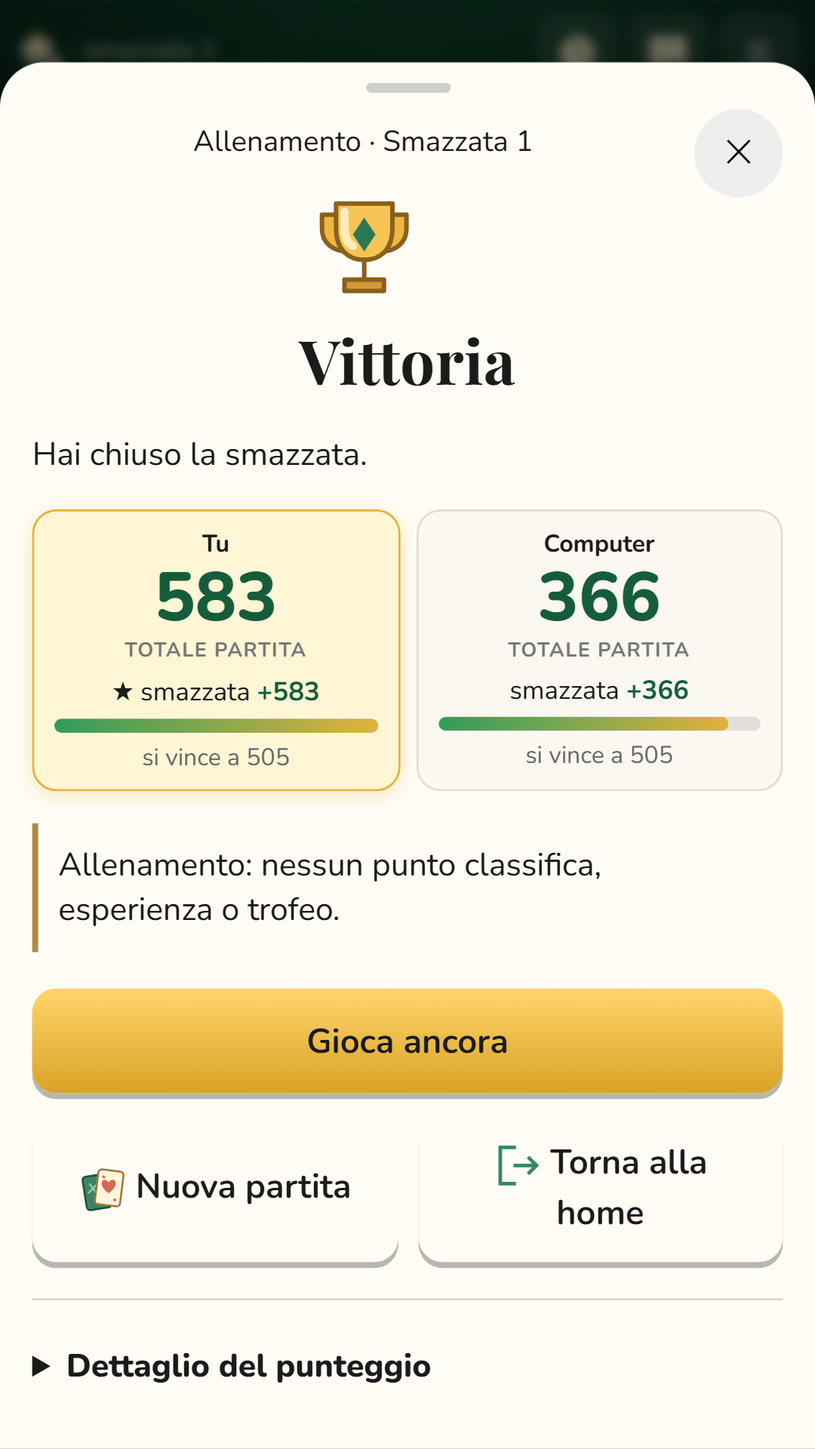
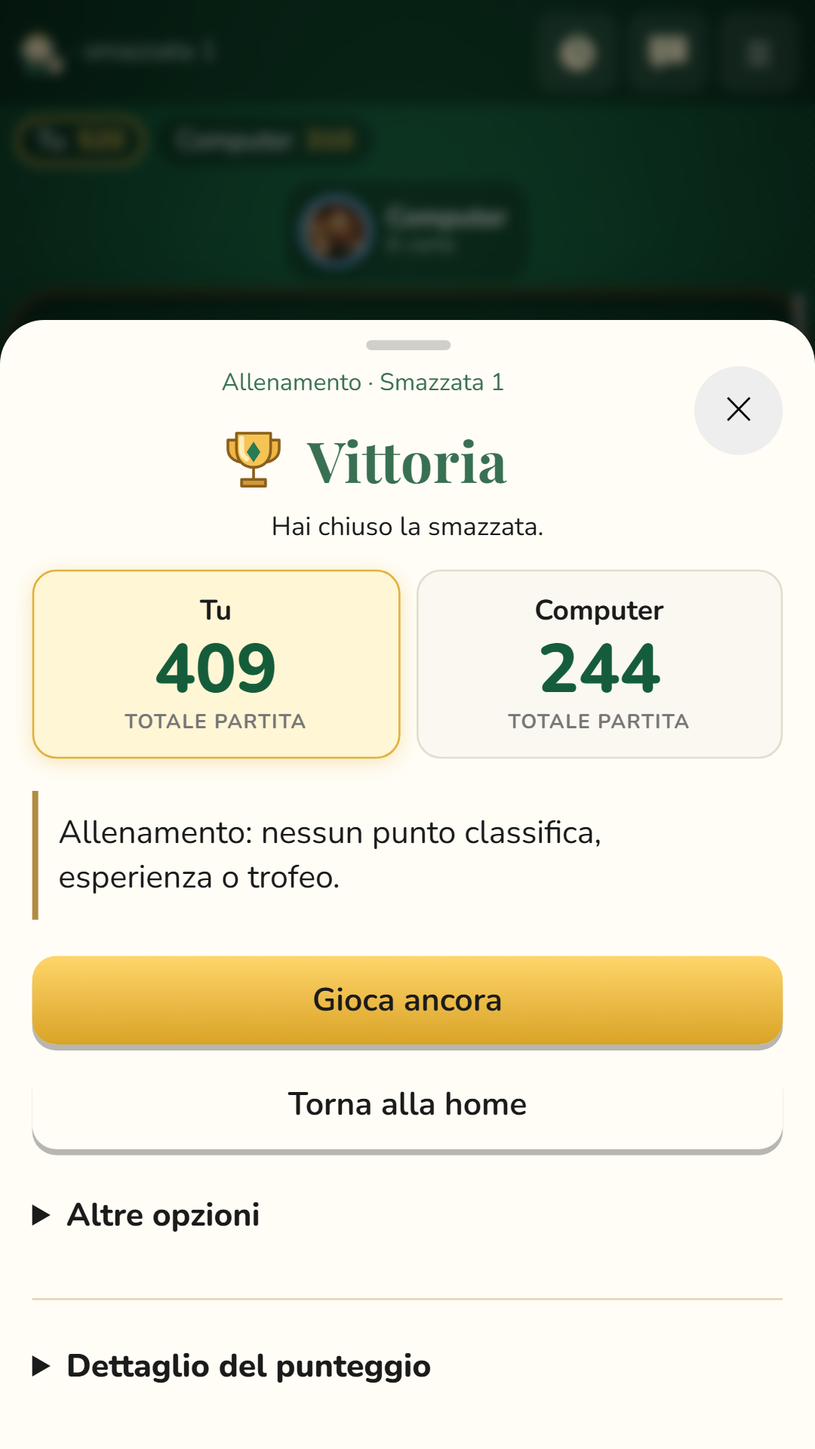
Rifinisci fine partita, inviti e apertura delle chest

diff --git a/public/js/finestre.js b/public/js/finestre.js
@@ -32,7 +32,7 @@
     const mode = training ? 'Allenamento' : S.room.daily ? 'Sfida del giorno' : S.room.rankedFormat ? 'Classificata' : 'Amichevole online';
     const outcome = g.over && g.you >= 0 ? g.winners.length === 0 ? 'Pareggio' : g.winners.includes(g.you) ? 'Vittoria' : 'Sconfitta' : 'Fine smazzata';
     const progressHTML = training ? `<p class="result-mode-note">${t('Allenamento: nessun punto classifica, esperienza o trofeo.')}</p>`
-      : earned ? `<section class="result-progress"><h3>${uiIcon('stats')} ${t('Progressi confermati')}</h3><p><b>+${earned.xp} ${t('punti esperienza')}</b> · ${t('Livello')} ${progress.level}</p><progress max="${progress.need}" value="${progress.into}" aria-label="${t('Esperienza nel livello')}"></progress><p>${progress.into}/${progress.need}</p>${earned.trophies.map(x=>`<p>${uiIcon('trophy')} ${esc(t(x.name))}</p>`).join('')}${(earned.rewards || []).map(x=>`<p>${uiIcon('check')} ${t('Premio sbloccato')}: ${esc(t(x.name))}</p>`).join('')}</section>` : '';
+      : earned ? `<section class="result-progress"><h3>${uiIcon('stats')} ${t('Progressi confermati')}</h3><p><b>+${earned.xp} ${t('punti esperienza')}</b> · ${t('Livello')} ${progress.level}</p><progress max="${progress.need}" value="${progress.into}" aria-label="${t('Esperienza nel livello')}"></progress>${earned.trophies.map(x=>`<p>${uiIcon('trophy')} ${esc(t(x.name))}</p>`).join('')}${(earned.rewards || []).map(x=>`<p>${uiIcon('check')} ${t('Premio sbloccato')}: ${esc(t(x.name))}</p>`).join('')}</section>` : '';
     const P = g.cfg.pozzettoName;
     const cols = hr.teams.map((t) => `<th>${esc(t.members.map((s) => (s === g.you ? 'Tu' : g.players[s].name)).join(' & '))}</th>`).join('');
     const row = (label, fn) => `<tr><td>${label}</td>${hr.teams.map((t) => `<td>${fn(t)}</td>`).join('')}</tr>`;
@@ -63,17 +63,17 @@
       const result = S.rankedLast?.matchId === S.room.rankedFormat.id ? S.rankedLast : null;
       footer = `
         ${result ? `${rankedCard(result.after)}${result.after.provisional || result.placementMatch ? '' : `<p>${result.delta > 0 ? '+' : ''}${result.delta} LP</p>`}` : ''}
-        <div class="endopts"><button class="btn primary" data-act="rankedAgain">${t('Cerca partita')}</button><button class="btn" data-act="rankedProfile">${t('Profilo competitivo')}</button><button class="btn" data-act="leaveNow">${t('Torna alla home')}</button></div>`;
+        <div class="endopts"><button class="btn primary" data-act="rankedAgain">${t('Cerca partita')}</button><button class="btn" data-act="leaveNow">${t('Torna alla home')}</button></div>`;
     } else if (g.over) {
-      // fine partita: tre strade chiare (rivincita, di nuovo al tavolo, uscire)
+      // Due azioni principali, con le opzioni del tavolo raccolte sotto.
       const solo = S.room.onDevice || S.room.offline || humans.length <= 1;
-      footer = `
-        <div class="endopts">
-          <button class="btn primary big" data-act="ready" ${imReady ? 'disabled' : ''}>${imReady ? 'Rivincita: hai votato ✓' : solo ? t('Gioca ancora') : t('Rivincita')}</button>
-          ${solo ? '<button class="btn big" data-act="newFromResult"><svg class=ui-icon viewBox=0,0,40,40 fill=none stroke=#294c3d stroke-width=1.6 aria-hidden=true><use href=#ui-cards /></svg> Nuova partita</button>' : '<button class="btn big" data-act="backToLobby"><svg class=ui-icon viewBox=0,0,40,40 fill=none stroke=#294c3d stroke-width=1.6 aria-hidden=true><use href=#ui-friends /></svg> Torna al tavolo</button>'}
-          <button class="btn big" data-act="leaveNow"><svg class=ui-icon viewBox=0,0,40,40 fill=none stroke=#294c3d stroke-width=1.6 aria-hidden=true><use href=#ui-exit /></svg> Torna alla home</button>
-        </div>
-        ${imReady && waiting.length ? `<p class="muted">In attesa di: ${esc(waiting.join(', '))}</p>` : solo ? '' : '<p class="muted small">Rivincita: stessi posti e stesse regole, si riparte quando tutti la premono. Torna al tavolo: per cambiare regole o giocatori.</p>'}`;
+      footer = `<div class="endopts">
+        <button class="btn primary big" data-act="ready" ${imReady?'disabled':''}>${imReady?t('Rivincita: hai votato ✓'):solo?t('Gioca ancora'):t('Rivincita')}</button>
+        <button class="btn big" data-act="leaveNow">${t('Torna alla home')}</button></div>
+        ${imReady&&waiting.length?'<p class="muted">'+t('In attesa di:')+' '+esc(waiting.join(', '))+'</p>':''}
+        <details class="result-secondary"><summary>${t('Altre opzioni')}</summary>
+        <button class="btn" data-act="${solo?'newFromResult':'backToLobby'}">${t(solo?'Nuova partita':'Torna al tavolo')}</button>
+        ${solo?'':'<p>'+t('Rivincita: stessi posti e stesse regole, si riparte quando tutti la premono.')+'</p>'}</details>`;
     } else {
       footer = `<button class="btn primary big" data-act="ready" style="width:100%" ${imReady ? 'disabled' : ''}>${imReady ? 'Pronto ✓' : 'Prossima smazzata'}</button>
         ${waiting.length && imReady ? `<p class="muted">In attesa di: ${esc(waiting.join(', '))}</p>` : ''}`;
@@ -103,12 +103,12 @@
     const key = `${S.room.code}:${S.room.gameSeq || ''}:${g.handNo}:${hr.teams.map((t) => t.total).join(',')}`;
     const firstShow = S.resultShown !== key;
     S.resultShown = key;
-    openModal('result', `<div class="result ${firstShow ? 'anim' : ''}">
-      <header class="result-heading"><p>${t(mode)} · ${t('Smazzata')} ${g.handNo}</p>${uiIcon(outcome === 'Vittoria' ? 'trophy' : 'cards')}<h2>${t(outcome)}</h2></header><p>${reason}</p>
+    openModal('result', `<div class="result ${g.over?'is-final':''} ${firstShow ? 'anim' : ''}">
+      <header class="result-heading" data-outcome="${outcome === 'Vittoria' ? 'win' : outcome === 'Sconfitta' ? 'loss' : 'neutral'}"><p>${t(mode)} · ${t('Smazzata')} ${g.handNo}</p>${uiIcon(outcome === 'Vittoria' ? 'trophy' : 'cards')}<h2>${t(outcome)}</h2></header><p class="result-reason">${reason}</p>
       <div class="rsum">${summary}</div>
       ${progressHTML}${typeof resultLootHTML==='function'?resultLootHTML():''}
-      <div class="result-actions">${footer}</div>
-      ${g.over&&!training&&g.you>=0&&S.social?.nick?`<section class="result-company"><h3>${t('Una bella compagnia?')}</h3><p>${t('Ritrovatevi per la prossima partita.')}</p><div class="row">${humans.filter(i=>i!==g.you&&!(S.social.blocked||[]).includes(S.room.seats[i].name)).map(i=>`<button class="btn small" data-act="playerMenu" data-nick="${esc(S.room.seats[i].name)}">${uiIcon('friends')}${esc(S.room.seats[i].name)}</button>`).join('')}<button class="btn small" data-act="friends">${t('Il mio gruppo')}</button></div></section>`:''}
+      <div class="result-actions">${footer}</div>${g.over&&S.room.rankedFormat?`<details class="result-secondary"><summary>${t('Altre opzioni')}</summary><button class="btn" data-act="rankedProfile">${t('Profilo competitivo')}</button></details>`:''}
+      ${g.over&&!training&&g.you>=0&&S.social?.nick?`<details class="result-company"><summary>${t('Una bella compagnia?')}</summary><p>${t('Ritrovatevi per la prossima partita.')}</p><div class="row">${humans.filter(i=>i!==g.you&&!(S.social.blocked||[]).includes(S.room.seats[i].name)).map(i=>`<button class="btn small" data-act="playerMenu" data-nick="${esc(S.room.seats[i].name)}">${uiIcon('friends')}${esc(S.room.seats[i].name)}</button>`).join('')}<button class="btn small" data-act="friends">${t('Il mio gruppo')}</button></div></details>`:''}
       <details class="result-details"><summary>${t('Dettaglio del punteggio')}</summary>
       <table><tr><th></th>${cols}</tr>
       ${hr.rows ? hr.rows.map((rw) => `<tr><td>${esc(rw.label)}</td>${rw.values.map((v, i) => `<td class="${rw.plain ? '' : v > 0 ? 'pos' : ''}">${rw.plain ? v : signed(v)}${rw.notes && rw.notes[i] ? `<br><span class="muted small">${esc(rw.notes[i])}</span>` : ''}</td>`).join('')}</tr>`).join('') : ''}

diff --git a/public/style.css b/public/style.css
@@ -1419,3 +1419,9 @@ body[data-theme=notte] .menu-card,body[data-theme=notte] .home-navigation>button
 .home-progress{width:100%;min-height:44px;padding:8px 5px 0;font-size:13px;line-height:1.3}.home-progress>span:first-child{flex:1;min-width:0}.home-progress progress{display:block;width:100%;height:7px;margin-top:6px;border:0;border-radius:6px;overflow:hidden;background:#ffffff30;accent-color:#f2c14e}.home-progress progress::-webkit-progress-bar{background:#ffffff30;border-radius:6px}.home-progress progress::-webkit-progress-value{background:#f2c14e;border-radius:6px}.home-progress progress::-moz-progress-bar{background:#f2c14e}
 .home-page .logo{margin:5px 0 10px}.home-page .logo h1{font-size:34px}.home-page .logo .muted{font-size:14px}.home-page .panel{padding:12px;margin:10px 0}.home-page .home-game-trigger{min-height:46px;padding:8px 12px}.home-account{padding-bottom:8px;margin-bottom:8px;gap:10px}.home-account .avatar{width:34px;height:34px}.homebtns{gap:8px;margin-top:8px}.homebtns>.btn{flex:none;min-height:44px;padding:9px 12px}.homebtns .homebtn{min-height:56px;padding:9px 12px;font-size:17px;border-radius:13px;gap:10px}.homebtns .homebtn small{font-size:13px;line-height:1.25;margin-top:2px}.homebtn>.ui-icon{width:30px;height:30px;flex-shrink:0}
 @media(max-height:650px){.home-page .logo .muted{display:none}.home-page .logo h1{font-size:28px}.home-page .logo{margin:0 0 6px}}
+/* Riepilogo breve, inviti leggibili e premio al centro dell'apertura. */
+.result.is-final .rbar,.result.is-final .rtot,.result.is-final .rhand{display:none}.result-heading[data-outcome=win]{color:#397052}.result-heading[data-outcome=loss]{color:#79644b}.result.is-final .result-heading{padding:8px 0}.result.is-final .result-heading h2{margin:6px 0}.result .result-reason{font-size:13px;text-align:center;margin:6px 0 12px}.result .rsum{margin:12px 0}.result .result-progress{padding:12px;margin:10px 0;border-radius:16px}.result .result-progress h3{font-size:15px;margin:0 0 6px}.result .result-progress p{margin:6px 0}.result-secondary,.result-reward-details{margin:12px 0}.result-secondary>summary,.result-reward-details>summary,.result-company>summary{cursor:pointer;font-weight:750;padding:10px 0;min-height:44px}.result-secondary>.btn{margin-top:8px}.result .result-actions .endopts{display:flex;flex-direction:column;gap:8px}.result-company p{font-size:14px}.result-loot>.btn{width:100%;min-height:44px;margin-top:8px}.result-loot{background:linear-gradient(130deg,#fff5d5,#f5edda);color:#334e3c;border:1px solid #d9bd70!important}.result-heading>.ui-icon{width:44px;height:44px}
+.invite-code{display:block;max-width:100%;margin:12px auto 16px;border:1px solid #e7cc86;border-radius:16px;background:#fff6dc;color:#244f3b;padding:12px 24px;font:inherit;box-shadow:0 3px 0 #0003}.invite-code b{display:block;font-size:32px;letter-spacing:.16em;overflow-wrap:anywhere}.invite-code small{display:block;font-size:13px;letter-spacing:0;margin-top:3px}.invite-code:focus-visible,.chest-stage:focus-visible{outline:3px solid #ce9d2e;outline-offset:4px}.invite-manual{width:100%;min-width:0;margin:12px 0;font-size:16px}
+button.chest-stage{display:block;padding:0;border:0;background:none;color:inherit;cursor:pointer;touch-action:manipulation}button.chest-stage:disabled{cursor:default;opacity:.75}.chest-reveal.is-revealed .chest-stage{display:none}.chest-reveal.is-revealed h2{font-size:18px;margin-bottom:14px}.chest-prize-art{width:180px;height:180px;max-width:65vw;max-height:65vw;margin:12px auto;border:2px solid var(--reward-glow);box-shadow:0 0 36px color-mix(in srgb,var(--reward-glow) 35%,transparent)}.chest-prize h3{font-size:24px;margin:12px 0 8px}.chest-prize .row>.btn{min-height:48px;flex:1;min-width:140px}.is-opening .chest-stage{filter:drop-shadow(0 0 16px var(--reward-glow))}
+body[data-theme=notte] .result-loot{background:#293f32;color:#f8edd4}body.contrast .result-loot{background:#fff;color:#111;border:2px solid #111!important}body.contrast .invite-code{background:#fff;color:#111;border:2px solid #111}
+.result.is-final .result-heading{display:flex;align-items:center;justify-content:center;gap:10px;flex-wrap:wrap;padding:0}.result.is-final .result-heading>p{width:100%;font-size:12px;margin:0 0 2px}.result.is-final .result-heading h2{font-size:28px;margin:0}.result.is-final .result-heading>.ui-icon{width:34px;height:34px}.result.is-final .rteam{padding:10px 6px}.result.is-final .rgrand{font-size:34px;line-height:1.1}.result.is-final .rname{font-size:14px}.result.is-final .rlabel{font-size:10px}.result.is-final .result-progress>h3{display:none}.result.is-final .result-progress{padding:10px;margin:8px 0}.result.is-final .result-progress>p{font-size:14px;margin:2px 0 6px}.result.is-final .result-progress>progress{height:7px}.result.is-final .result-loot{display:flex;flex-wrap:wrap;align-items:center;gap:6px}.result.is-final .result-loot>p{flex:1;margin:0;min-width:120px}.result.is-final .result-loot>.btn{width:auto;min-height:44px;margin:0;order:1;font-size:14px;padding:8px 12px}.result.is-final .result-reward-details{order:2;flex-basis:100%;margin:0;font-size:13px}.result.is-final .result-reward-details>summary{min-height:36px;padding:8px 0}.result.is-final .result-actions .endopts{margin-top:8px}.result.is-final .result-actions .btn{min-height:44px;padding:10px 14px;font-size:16px}

diff --git a/public/js/chests.js b/public/js/chests.js
@@ -51,7 +51,7 @@ function chestReveal(reward) {
   const reduce=S.prefs.anim===false || matchMedia('(prefers-reduced-motion: reduce)').matches;
   clearTimeout(S.chestRevealTimer);
   openModal('chestReward',collectionShell('loot',`<section class="chest-reveal ${reduce?'':'is-opening'}" data-rarity="${rarity.id}">
-    <h2>${t('Il tuo premio')}</h2><div class="chest-stage" data-chest-type="${reward.chestType || reward.rarity}" aria-hidden="true"><div class="chest-burst"></div><div class="chest-sprite"></div>${Array.from({length:8},(_,i)=>`<i class="chest-spark" style="--spark:${i}"></i>`).join('')}</div>
+    <h2>${t('Il tuo premio')}</h2><button class="chest-stage" data-act="chestSkip" data-chest-type="${reward.chestType || reward.rarity}" aria-label="${t('Tocca per scoprire il premio')}"><div class="chest-burst"></div><div class="chest-sprite"></div>${Array.from({length:8},(_,i)=>`<i class="chest-spark" style="--spark:${i}"></i>`).join('')}</button>
     <button class="btn small chest-skip" data-act="chestSkip">${t('Salta animazione')}</button>
     <div class="chest-prize" hidden role="status"><div class="chest-prize-art">${a.html}</div><span class="avatar-rarity" data-rarity="${rarity.id}">${t(rarity.name)}</span><h3>${esc(t(a.name))}</h3><p>${reward.duplicate?t('Doppione')+' · +'+reward.fragments+' '+t('frammenti'):t('Nuovo oggetto nella tua collezione')}</p><div class="row"><button class="btn primary" data-act="chestEquip" data-kind="${a.kind}" data-item-id="${a.id}">${a.kind==='avatar'?t('Usa avatar'):t('Usa questo stile')}</button><button class="btn" data-act="chests">${t('Continua')}</button></div></div></section>`));
   $('#modal .modal-box').scrollTop=0;
@@ -85,8 +85,8 @@ Object.assign(handlers,{
   async chestShowItem(el){await collectionModal(el.dataset.kind);if(collectionOwned().has(el.dataset.id))await handlers.collectionSelect(el);},
   chestRetry(){const r=chestRequest();if(r)return chestSubmit(r);},
   chestSkip(){
-    clearTimeout(S.chestRevealTimer);const root=$('#modal .chest-reveal');if(!root)return;
-    root.classList.remove('is-opening');root.classList.add('is-revealed');
+    clearTimeout(S.chestRevealTimer);const root=$('#modal .chest-reveal');if(!root||root.classList.contains('is-revealed'))return;
+    Sound.chest(root.dataset.rarity);root.querySelector('.chest-stage').disabled=true;root.classList.remove('is-opening');root.classList.add('is-revealed');
     root.querySelector('.chest-prize').hidden=false;root.querySelector('.chest-skip').hidden=true;
     root.querySelector('.chest-prize [data-act=chestEquip]')?.focus({preventScroll:true});
   },
@@ -136,5 +136,5 @@ function resultLootHTML() {
   const d=S.chestMatch;
   if(!d||d.owner!==S.token||d.roomCode!==S.room?.code||d.gameSeq!==S.room?.gameSeq||!S.game?.over||S.game.you<0||S.room.onDevice||S.room.offline||S.room.tutorial||S.room.progressEligible===false)return '';
   const count=(d.justEarned?1:0)+(d.weeklyEarned||0)+(d.journeyEarned||0),next=d.weekly?.missions.find(m=>!m.awarded);
-  return `<section class="result-progress result-loot"><h3>${t('Le tue ricompense')}</h3><p>${count?t('Chest ottenute')+': <b>'+count+'</b>':d.earnedToday>=1?t('Limite giornaliero raggiunto. Riprendi domani; le tue chest non scadono.'):t('Progressi salvati per la prossima chest')}</p><progress max="2" value="${d.progress}" aria-label="${t('Progressi verso la prossima chest')}"></progress><p>${d.progress}/2 · ${t('Chest ottenute oggi')}: ${d.earnedToday}/1</p>${next?`<p>${t('Prossimo obiettivo')}: ${t(next.name)} · ${next.progress}/${next.goal}</p>`:`<p>${t('Obiettivi settimanali completati')}</p>`}<button class="btn" data-act="chests">${t('Vai al bottino')}</button></section>`;
+  return `<section class="result-progress result-loot"><h3>${t('Le tue ricompense')}</h3><p>${count?t('Chest ottenute')+': <b>'+count+'</b>':d.earnedToday>=1?t('Limite giornaliero raggiunto. Riprendi domani; le tue chest non scadono.'):t('Progressi salvati per la prossima chest')}</p><details class="result-reward-details"><summary>${t('I tuoi progressi')}</summary><progress max="2" value="${d.progress}" aria-label="${t('Progressi verso la prossima chest')}"></progress><p>${d.progress}/2 · ${t('Chest ottenute oggi')}: ${d.earnedToday}/1</p>${next?`<p>${t('Prossimo obiettivo')}: ${t(next.name)} · ${next.progress}/${next.goal}</p>`:`<p>${t('Obiettivi settimanali completati')}</p>`}</details><button class="btn" data-act="chests">${t('Vai al bottino')}</button></section>`;
 }

diff --git a/server/reward-polish-ui-flow.js b/server/reward-polish-ui-flow.js
@@ -1,0 +1,17 @@
+'use strict';
+const wait=ms=>new Promise(r=>setTimeout(r,ms));
+module.exports=async(cdp,shot)=>{
+ await cdp.run(`hideIntro();closeModal();S.screen='home';render();window.__savedRoom=S.room;S.room={code:'ABCD',rules:RX.normalize({players:2}),n:2,host:0,you:0,isHost:true,ready:[],seats:[{name:'Collezionista',connected:true},{name:'Altro',connected:true}]};S.screen='lobby';render();window.__originalShare=Object.getOwnPropertyDescriptor(navigator,'share');window.__originalClipboard=Object.getOwnPropertyDescriptor(navigator,'clipboard');window.__copied=[];Object.defineProperty(navigator,'clipboard',{configurable:true,value:{writeText:async text=>__copied.push(text)}});Object.defineProperty(navigator,'share',{configurable:true,value:undefined});`);
+ await wait(900);
+ for(const width of [320,375]){
+  await cdp.send('Emulation.setDeviceMetricsOverride',{width,height:740,deviceScaleFactor:1,mobile:true});
+  await cdp.run(`if(document.documentElement.scrollWidth>innerWidth+1)throw Error('Invito fuori schermo');await handlers.copyInviteCode();if(__copied.at(-1)!=='ABCD')throw Error('Codice errato');await handlers.share();if(!__copied.at(-1).endsWith('?t=ABCD'))throw Error('Condivisione senza fallback');`);await shot('invito-semplice-'+width);
+ }
+ await cdp.run(`let sent;Object.defineProperty(navigator,'share',{configurable:true,value:async data=>{sent=data;}});await handlers.share();if(!sent.url.endsWith('?t=ABCD')||!sent.text.includes('ABCD'))throw Error('Invito nativo errato');const n=__copied.length;Object.defineProperty(navigator,'share',{configurable:true,value:async()=>{throw Object.assign(Error('Annullato'),{name:'AbortError'});}});await handlers.share();if(__copied.length!==n)throw Error('Annullamento copia invito');Object.defineProperty(navigator,'share',{configurable:true,value:async()=>{throw Error('Non disponibile');}});await handlers.share();if(__copied.length!==n+1)throw Error('Errore condivisione non recuperato');Object.defineProperty(navigator,'clipboard',{configurable:true,value:{writeText:async()=>{throw Error('Negato');}}});await handlers.copyInviteCode();if(S.modalKind!=='copyInvite'||document.querySelector('.invite-manual').value!=='ABCD')throw Error('Copia manuale assente');for(const [key,descriptor] of [['share',__originalShare],['clipboard',__originalClipboard]]){if(descriptor)Object.defineProperty(navigator,key,descriptor);else delete navigator[key];}closeModal();S.room=__savedRoom;S.screen='home';render();window.__soundChest=Sound.chest;window.__heard=[];Sound.chest=r=>__heard.push(r);const response=await emit('openChest',{id:'1'});if(!response.ok)throw Error('Apertura reale rifiutata');window.__reward=response.reward;S.prefs.anim=true;applyPrefs();`);
+ for(const rarity of ['common','rare','epic','legendary']){
+  await cdp.run(`chestReveal({...__reward,rarity:'${rarity}'});if(!document.querySelector('.chest-prize').hidden)throw Error('Premio anticipato');const count=__heard.length;document.querySelector('.chest-stage').click();handlers.chestSkip();if(document.querySelector('.chest-prize').hidden||__heard.length!==count+1||__heard.at(-1)!=='${rarity}')throw Error('Salto o suono duplicato');if(getComputedStyle(document.querySelector('.chest-stage')).display!=='none')throw Error('Chest copre il premio');if(document.querySelector('.modal-box').scrollWidth>document.querySelector('.modal-box').clientWidth+1)throw Error('Premio fuori schermo');`);await wait(500);await shot('premio-'+rarity);
+ }
+ await cdp.run(`chestReveal(__reward);`);await wait(2100);
+ await cdp.run(`if(document.querySelector('.chest-prize').hidden)throw Error('Apertura automatica non termina');S.prefs.anim=false;chestReveal({...__reward,duplicate:true,fragments:15});if(document.querySelector('.chest-prize').hidden||!document.querySelector('.chest-prize').textContent.includes('15'))throw Error('Doppione o movimento ridotto errato');S.prefs.anim=true;Sound.chest=__soundChest;closeModal();`);
+ console.log('Inviti e premi OK: codice/link, condivisione, annullamento, fallback manuale, 4 rarità, tocco, timer, suono unico, doppioni e movimento ridotto; 320/375 px');
+};

diff --git a/launcher/sw.js b/launcher/sw.js
@@ -1,7 +1,7 @@
 // Service worker della pagina d'ingresso: salva la pagina e la copia del gioco (cartella gioca/)
 // così, senza internet, l'app si apre lo stesso e si può giocare contro il computer.
 // "Prima la rete": da collegati si usa sempre la versione più recente.
-const CACHE = 'burraco-ingresso-v82';
+const CACHE = 'burraco-ingresso-v83';
 const SHELL = [
   'gioca/js/collection.js', 'gioca/collection.css', 'gioca/shared/cosmetics.js', 'gioca/js/cosmetics.js', 'gioca/cosmetics.css', 'gioca/art/cosmetics/back/trama-rubino.webp', 'gioca/art/cosmetics/back/picche-del-bosco.webp', 'gioca/art/cosmetics/back/fiordaliso.webp', 'gioca/art/cosmetics/back/filo-di-rame.webp', 'gioca/art/cosmetics/back/vento-marino.webp', 'gioca/art/cosmetics/back/lavanda.webp', 'gioca/art/cosmetics/back/geometrie-salvia.webp', 'gioca/art/cosmetics/back/righe-del-mazziere.webp', 'gioca/art/cosmetics/back/mosaico-terracotta.webp', 'gioca/art/cosmetics/back/foglie-d-autunno.webp', 'gioca/art/cosmetics/back/rosa-dei-venti.webp', 'gioca/art/cosmetics/back/vetri-di-murano.webp', 'gioca/art/cosmetics/back/piuma-di-pavone.webp', 'gioca/art/cosmetics/back/orologio-lunare.webp', 'gioca/art/cosmetics/back/giardino-d-inverno.webp', 'gioca/art/cosmetics/back/scaglie-d-ambra.webp', 'gioca/art/cosmetics/back/biblioteca-arcana.webp', 'gioca/art/cosmetics/back/cometa-di-cristallo.webp', 'gioca/art/cosmetics/back/drago-d-ossidiana.webp', 'gioca/art/cosmetics/back/sigillo-dell-aurora.webp', 'gioca/art/cosmetics/felt/panno-foresta.webp', 'gioca/art/cosmetics/felt/velluto-blu-notte.webp', 'gioca/art/cosmetics/felt/cotone-bordeaux.webp', 'gioca/art/cosmetics/felt/ardesia-soffice.webp', 'gioca/art/cosmetics/felt/tessuto-petrolio.webp', 'gioca/art/cosmetics/felt/muschio.webp', 'gioca/art/cosmetics/felt/zaffiro-fume.webp', 'gioca/art/cosmetics/felt/crepuscolo-viola.webp', 'gioca/art/cosmetics/felt/sabbia-d-ulivo.webp', 'gioca/art/cosmetics/felt/terracotta-scura.webp', 'gioca/art/cosmetics/felt/salotto-veneziano.webp', 'gioca/art/cosmetics/felt/serra-al-tramonto.webp', 'gioca/art/cosmetics/felt/salone-d-ambra.webp', 'gioca/art/cosmetics/felt/osservatorio.webp', 'gioca/art/cosmetics/felt/riva-notturna.webp', 'gioca/art/cosmetics/felt/biblioteca-di-noce.webp', 'gioca/art/cosmetics/felt/santuario-di-giada.webp', 'gioca/art/cosmetics/felt/palazzo-delle-nuvole.webp', 'gioca/art/cosmetics/felt/forgia-celeste.webp', 'gioca/art/cosmetics/felt/giardino-dell-eternita.webp', 'gioca/art/cosmetics/reaction/orso-applaude.webp', 'gioca/art/cosmetics/reaction/volpe-saluta.webp', 'gioca/art/cosmetics/reaction/gatto-ringrazia.webp', 'gioca/art/cosmetics/reaction/coniglio-sorpreso.webp', 'gioca/art/cosmetics/reaction/gufo-riflette.webp', 'gioca/art/cosmetics/reaction/lontra-ride.webp', 'gioca/art/cosmetics/reaction/riccio-incoraggia.webp', 'gioca/art/cosmetics/reaction/pinguino-approva.webp', 'gioca/art/cosmetics/reaction/panda-rosso-abbraccia.webp', 'gioca/art/cosmetics/reaction/tartaruga-aspetta.webp', 'gioca/art/cosmetics/reaction/leone-si-inchina.webp', 'gioca/art/cosmetics/reaction/prestigiatore-festeggia.webp', 'gioca/art/cosmetics/reaction/gufo-meravigliato.webp', 'gioca/art/cosmetics/reaction/lupo-ammicca.webp', 'gioca/art/cosmetics/reaction/pavone-elegante.webp', 'gioca/art/cosmetics/reaction/alchimista-brillante.webp', 'gioca/art/cosmetics/reaction/grifone-esulta.webp', 'gioca/art/cosmetics/reaction/unicorno-incanta.webp', 'gioca/art/cosmetics/reaction/gatto-stregone-trionfa.webp', 'gioca/art/cosmetics/reaction/fenice-celebra.webp',
   'gioca/art/chests/chest-opening.webp', 'gioca/art/chests/chest-rare.webp', 'gioca/art/chests/chest-epic.webp', 'gioca/art/chests/chest-legendary.webp', 'gioca/js/chests.js',

diff --git a/server/release-ui-test.js b/server/release-ui-test.js
@@ -86,6 +86,11 @@ const size=async(width=375,height=812,dpr=1)=>send('Emulation.setDeviceMetricsOv
  await run(`S.room=${JSON.stringify(demoRoom)};S.game=${JSON.stringify(E.viewFor(demo,0))};S.screen='game';render();showResult();if(S.game.handResult.reason==='close'&&S.game.handResult.closer===S.game.you&&!document.querySelector('.result').textContent.includes('Hai chiuso la smazzata'))throw Error('risultato non rivolto al giocatore');`);await shot('08-risultato');
  await run(`S.room={...S.room,onDevice:false,offline:false,progressEligible:true,code:'RICOMPENSE',gameSeq:1};S.game={...S.game,over:true,winners:[0]};S.handProgress={level:2,into:35,need:200,earned:{roomCode:'RICOMPENSE',gameSeq:1,handNo:S.game.handNo,xp:80,trophies:[]}};S.chestMatch={owner:S.token,roomCode:'RICOMPENSE',gameSeq:1,justEarned:true,weeklyEarned:1,progress:0,earnedToday:1,weekly:{missions:[{name:'Completa 3 partite con un amico',progress:2,goal:3,awarded:false}]}};showResult();if(!document.querySelector('.result-loot')||!document.querySelector('.result-loot').textContent.includes('2'))throw Error('premi partita assenti');if(document.querySelector('.modal-box').scrollWidth>document.querySelector('.modal-box').clientWidth+1)throw Error('ricompense fuori schermo');`);await shot('ricompense-fine-partita');
 
+
+ for(const width of [320,375]){
+  await size(width,740);await run(`S.prefs.text='enorme';applyPrefs();S.room.rankedFormat=null;showResult();const actions=[...document.querySelectorAll('.result-actions>.endopts>button')];if(actions.length!==2||actions[0].dataset.act!=='ready'||actions[1].dataset.act!=='leaveNow')throw Error('Fine partita non semplificata');if(document.querySelector('.result-secondary').open||document.querySelector('.result-reward-details').open)throw Error('Dettagli non raccolti');if(document.querySelector('.modal-box').scrollWidth>document.querySelector('.modal-box').clientWidth+1)throw Error('Fine partita fuori schermo');S.room.rankedFormat={id:'test'};showResult();if(document.querySelector('.result-actions [data-act=ready]')||!document.querySelector('[data-act=rankedAgain]'))throw Error('Rivincita in classificata');S.room.rankedFormat=null;S.prefs.text='normale';applyPrefs();`);await shot('risultato-compatto-'+width);
+ }
+ await size(405,720,1080/405);
  await run(`S.room=null;S.game=null;S.screen='rankedOverview';S.overviewData={ranks:{},currentSeason:0,ends:Date.now()+86400000};closeModal();render();if(!document.querySelector('.empty-state'))throw Error('classifica vuota senza azione');`);await shot('09-classifica');
  await run(`S.room=null;S.game=null;S.localGame=false;Local.attached=false;S.screen='home';const previousSocial=S.social;S.social=null;S.mailOn=false;closeModal();render();if(!document.querySelector('.guest-start')||document.querySelector('#profile-signup').open)throw Error('accesso ospite');handlers.playBots();if(S.screen!=='setup')throw Error('CPU richiede registrazione');await handlers.practice({dataset:{game:'scala40'}});await new Promise(r=>setTimeout(r,700));if(!S.game||!S.room.tutorial||!S.localGame)throw Error('tutorial ospite non locale');handlers.moveHelp();if(!document.querySelector('[data-act=gameRules]'))throw Error('aiuto contestuale assente');closeModal();handlers.report();const field=document.querySelector('#reportin');field.value='Bozza problema senza rete';field.dispatchEvent(new Event('input',{bubbles:true}));closeModal();handlers.report();if(document.querySelector('#reportin').value!=='Bozza problema senza rete')throw Error('bozza segnalazione persa');closeModal();S.social=previousSocial;`);await shot('aiuto-ospite');
  if(errors.length)throw Error(errors.join('\n'));

diff --git a/public/sw.js b/public/sw.js
@@ -1,7 +1,7 @@
 // Service worker: notifiche e copia del gioco per giocare anche senza internet.
 // "Prima la rete": da collegati si usa sempre la versione più recente (e se ne salva una copia);
 // senza rete si usa l'ultima copia salvata. La connessione di gioco (socket.io) non passa mai dalla copia.
-const CACHE = 'burraco-gioco-v82';
+const CACHE = 'burraco-gioco-v83';
 const SHELL = [
   'js/collection.js', 'collection.css', 'shared/cosmetics.js', 'js/cosmetics.js', 'cosmetics.css', 'art/cosmetics/back/trama-rubino.webp', 'art/cosmetics/back/picche-del-bosco.webp', 'art/cosmetics/back/fiordaliso.webp', 'art/cosmetics/back/filo-di-rame.webp', 'art/cosmetics/back/vento-marino.webp', 'art/cosmetics/back/lavanda.webp', 'art/cosmetics/back/geometrie-salvia.webp', 'art/cosmetics/back/righe-del-mazziere.webp', 'art/cosmetics/back/mosaico-terracotta.webp', 'art/cosmetics/back/foglie-d-autunno.webp', 'art/cosmetics/back/rosa-dei-venti.webp', 'art/cosmetics/back/vetri-di-murano.webp', 'art/cosmetics/back/piuma-di-pavone.webp', 'art/cosmetics/back/orologio-lunare.webp', 'art/cosmetics/back/giardino-d-inverno.webp', 'art/cosmetics/back/scaglie-d-ambra.webp', 'art/cosmetics/back/biblioteca-arcana.webp', 'art/cosmetics/back/cometa-di-cristallo.webp', 'art/cosmetics/back/drago-d-ossidiana.webp', 'art/cosmetics/back/sigillo-dell-aurora.webp', 'art/cosmetics/felt/panno-foresta.webp', 'art/cosmetics/felt/velluto-blu-notte.webp', 'art/cosmetics/felt/cotone-bordeaux.webp', 'art/cosmetics/felt/ardesia-soffice.webp', 'art/cosmetics/felt/tessuto-petrolio.webp', 'art/cosmetics/felt/muschio.webp', 'art/cosmetics/felt/zaffiro-fume.webp', 'art/cosmetics/felt/crepuscolo-viola.webp', 'art/cosmetics/felt/sabbia-d-ulivo.webp', 'art/cosmetics/felt/terracotta-scura.webp', 'art/cosmetics/felt/salotto-veneziano.webp', 'art/cosmetics/felt/serra-al-tramonto.webp', 'art/cosmetics/felt/salone-d-ambra.webp', 'art/cosmetics/felt/osservatorio.webp', 'art/cosmetics/felt/riva-notturna.webp', 'art/cosmetics/felt/biblioteca-di-noce.webp', 'art/cosmetics/felt/santuario-di-giada.webp', 'art/cosmetics/felt/palazzo-delle-nuvole.webp', 'art/cosmetics/felt/forgia-celeste.webp', 'art/cosmetics/felt/giardino-dell-eternita.webp', 'art/cosmetics/reaction/orso-applaude.webp', 'art/cosmetics/reaction/volpe-saluta.webp', 'art/cosmetics/reaction/gatto-ringrazia.webp', 'art/cosmetics/reaction/coniglio-sorpreso.webp', 'art/cosmetics/reaction/gufo-riflette.webp', 'art/cosmetics/reaction/lontra-ride.webp', 'art/cosmetics/reaction/riccio-incoraggia.webp', 'art/cosmetics/reaction/pinguino-approva.webp', 'art/cosmetics/reaction/panda-rosso-abbraccia.webp', 'art/cosmetics/reaction/tartaruga-aspetta.webp', 'art/cosmetics/reaction/leone-si-inchina.webp', 'art/cosmetics/reaction/prestigiatore-festeggia.webp', 'art/cosmetics/reaction/gufo-meravigliato.webp', 'art/cosmetics/reaction/lupo-ammicca.webp', 'art/cosmetics/reaction/pavone-elegante.webp', 'art/cosmetics/reaction/alchimista-brillante.webp', 'art/cosmetics/reaction/grifone-esulta.webp', 'art/cosmetics/reaction/unicorno-incanta.webp', 'art/cosmetics/reaction/gatto-stregone-trionfa.webp', 'art/cosmetics/reaction/fenice-celebra.webp',
   'art/chests/chest-opening.webp', 'art/chests/chest-rare.webp', 'art/chests/chest-epic.webp', 'art/chests/chest-legendary.webp', 'js/chests.js',

diff --git a/public/js/azioni.js b/public/js/azioni.js
@@ -78,10 +78,21 @@
     return `${base}?t=${S.room.code}`;
   }
 
-  async function copyLink() {
-    try { await navigator.clipboard.writeText(inviteLink()); toast('Link copiato'); }
-    catch (e) { prompt('Copia il link:', inviteLink()); }
+  async function copyInviteText(text,message){
+    try{
+      if(navigator.clipboard?.writeText)await navigator.clipboard.writeText(text);
+      else {
+        const field=document.createElement('textarea');field.value=text;field.setAttribute('readonly','');field.style.cssText='position:fixed;top:0;left:0;opacity:0';document.body.append(field);field.select();
+        let copied=false;try{copied=document.execCommand('copy');}finally{field.remove();}
+        if(!copied)throw Error('Copia non disponibile');
+      }
+      toast(t(message));return true;
+    }catch(_){
+      openModal('copyInvite',`<h2>${t('Il tuo invito')}</h2><p>${t('Tieni premuto il testo per copiarlo.')}</p><input class="invite-manual" aria-label="${t('Il tuo invito')}" value="${esc(text)}" readonly><button class="btn primary" data-act="closeModal">${t('Torna al tavolo')}</button>`);
+      const field=$('#modal .invite-manual');field.focus();field.select();return false;
+    }
   }
+  async function copyLink(){if(S.room?.code)return copyInviteText(inviteLink(),'Link copiato');}
 
   function setRule(target, key, value) {
     const obj = target === 'edit' ? S.editRules : S.rules;
@@ -231,12 +242,13 @@
     async backToLobby() { const r = await emit('backToLobby'); if (r.ok) closeModal(); },
     // fine partita contro il computer: si sceglie un'altra partita
     newFromResult() { closeModal(); emit('leaveRoom'); Local.attached = false; S.localGame = false; S.room = null; S.game = null; S.playMode = 'bots'; S.screen = 'setup'; render(); },
-    share() {
-      const text = t(`Gioca a carte con me su Smazzata! Codice tavolo ${S.room.code}`);
-      if (navigator.share) navigator.share({ title: 'Smazzata', text, url: inviteLink() }).catch(() => {});
-      // nell'app Android la condivisione del browser non c'è: si apre WhatsApp con il messaggio pronto
-      else window.open('https://wa.me/?text=' + encodeURIComponent(text + ' ' + inviteLink()), '_blank');
+    async share() {
+      if(!S.room?.code)return;
+      const text=t('Gioca a carte con me su Smazzata! Codice tavolo {0}').replace('{0}',S.room.code);
+      if(navigator.share){try{await navigator.share({title:'Smazzata',text,url:inviteLink()});return;}catch(e){if(e.name==='AbortError')return;}}
+      return copyLink();
     },
+    copyInviteCode(){if(S.room?.code)return copyInviteText(S.room.code,'Codice copiato');},
     copy: copyLink,
     sit(el) { emit('sit', { seat: Number(el.dataset.seat) }); },
     addBot(el) { emit('addBot', { seat: Number(el.dataset.seat) }); },

diff --git a/server/chest-uitest.js b/server/chest-uitest.js
@@ -32,6 +32,7 @@ const wait=ms=>new Promise(r=>setTimeout(r,ms));
   if(process.argv.includes('--first-use')){await require('./first-use-flow')(cdp,shot);assert.deepEqual(errors,[]);return;}
   if(process.argv.includes('--journey')){await require('./journey-ui-flow')(cdp,shot);assert.deepEqual(errors,[]);return;}
   if(process.argv.includes('--simple')){await require('./simple-inventory-ui-flow')(cdp,shot);assert.deepEqual(errors,[]);return;}
+  if(process.argv.includes('--rewards')){await require('./reward-polish-ui-flow')(cdp,shot);return;}
   if(process.argv.includes('--menus')){await require('./menus-ui-flow')(cdp,shot);assert.deepEqual(errors,[]);return;}
   await cdp.run(`if(Music.active!==null||S.prefs.music)throw Error('musica attiva senza scelta');settingsModal('audio');if(!document.querySelector('[data-key=music][data-val=true]'))throw Error('comando musica assente');const range=document.querySelector('#musicVolume');if(!range||range.value!=='50')throw Error('volume iniziale errato');range.value='25';range.dispatchEvent(new Event('input',{bubbles:true}));if(Music.volume()!==25||store.get('bur_prefs',{}).musicVolume!==25||document.querySelector('#musicVolumeValue').textContent!=='25%')throw Error('volume non salvato');if(Music.active!==null)throw Error('regolare volume avvia musica spenta');settingsModal();if(document.querySelector('#musicVolume').value!=='25')throw Error('volume perso riaprendo impostazioni');`);
   await cdp.send('Runtime.evaluate',{expression:`S.prefs.music=true;applyPrefs();Music.sync(true);`,userGesture:true});await wait(400);

diff --git a/server/music-test.js b/server/music-test.js
@@ -71,3 +71,5 @@ test('Arrangiamento: frase lunga, pause, timbro morbido e scheduler limitato',()
 });
 
 test('Menu e partita hanno metrica, armonia e attacchi distinti',()=>{const a=setup(),b=setup();for(const x of [a,b])x.S.prefs.music=true;b.S.screen='game';b.S.room={rules:{game:'burraco'}};a.music.sync(true);b.music.sync(true);a.advance(30);b.advance(30);assert.notDeepEqual(a.music.themes.home.chords,a.music.themes.burraco.chords);assert(a.oscillators.length>b.oscillators.length*2);assert.equal(a.music.themes.home.style,'salon');assert.equal(b.music.themes.burraco.style,'ambient');});
+
+test('Apertura chest: quattro segnali distinti e rispetto dei suoni disattivati',()=>{const source=fs.readFileSync(require.resolve('../public/js/base.js'),'utf8');const start=source.indexOf('    chest(rarity){'),end=source.indexOf('    play(kind)',start);assert(start>=0&&end>start);const S={prefs:{sound:false}},calls=[];const box=vm.createContext({S});const sound=vm.runInContext('({'+source.slice(start,end)+'})',box);sound.ctx={};sound.note=(...args)=>calls.push(args);sound.chest('legendary');assert.equal(calls.length,0);S.prefs.sound=true;const signatures=[];for(const [rarity,count] of [['common',2],['rare',3],['epic',4],['legendary',5]]){calls.length=0;sound.chest(rarity);assert.equal(calls.length,count);assert(calls.every(([f,delay,vol])=>f>0&&delay>=0&&vol<=.05));signatures.push(JSON.stringify(calls));}assert.equal(new Set(signatures).size,4);sound.ctx=null;calls.length=0;sound.chest('legendary');assert.equal(calls.length,0);});

diff --git a/public/js/schermate.js b/public/js/schermate.js
@@ -300,8 +300,8 @@
       <div class="panel" style="text-align:center">
         <h2 class="bigtitle">${esc(RX.gameName(r.rules))}: invita gli amici</h2>
         <div class="muted">Codice del tavolo</div>
-        <div class="code">${esc(r.code)}</div>
-        <div class="row" style="justify-content:center"><button class="btn primary big" data-act="share"><svg class=ui-icon viewBox=0,0,40,40 fill=none stroke=#294c3d stroke-width=1.6 aria-hidden=true><use href=#ui-exit /></svg> Manda l'invito</button></div>
+        <button class="code invite-code" data-act="copyInviteCode" aria-label="${t('Copia il codice')}"><b>${esc(r.code)}</b><small>${t('Tocca per copiare')}</small></button>
+        <div class="row" style="justify-content:center"><button class="btn primary big" data-act="share"><svg class=ui-icon viewBox=0,0,40,40 fill=none stroke=#294c3d stroke-width=1.6 aria-hidden=true><use href=#ui-exit /></svg> ${t('Invita un amico')}</button></div>
         <div class="row" style="justify-content:center;margin-top:6px"><button class="btn ghost small" data-act="copy">Copia il link</button>${S.social && S.social.nick ? '<button class="btn ghost small" data-act="friends"><svg class=ui-icon viewBox=0,0,40,40 fill=none stroke=#294c3d stroke-width=1.6 aria-hidden=true><use href=#ui-friends /></svg> Dai miei amici</button>' : ''}</div>
       </div>
       <div class="panel">

diff --git a/public/js/base.js b/public/js/base.js
@@ -4,7 +4,7 @@
 'use strict';
 
   const R = window.BurracoRules;
-  const CLIENT_BUILD = '2026.10.25.2';
+  const CLIENT_BUILD = '2026.10.25.3';
   const $ = (s, el = document) => el.querySelector(s);
   const $$ = (s, el = document) => [...el.querySelectorAll(s)];
   const esc = (s) => String(s).replace(/[&<>"']/g, (c) => ({ '&': '&amp;', '<': '&lt;', '>': '&gt;', '"': '&quot;', "'": '&#39;' }[c]));
@@ -197,6 +197,11 @@
       o.type = 'sine'; o.frequency.setValueAtTime(240, t); o.frequency.exponentialRampToValueAtTime(130, t + 0.14);
       this.env(g, t, 0.32, 0.005, 0.16);
       o.connect(g).connect(this.out); o.start(t); o.stop(t + 0.2);
+    },
+    chest(rarity){
+      if(!S.prefs.sound||!this.ctx)return;
+      const notes={common:[523.25,659.25],rare:[587.33,739.99,880],epic:[659.25,783.99,987.77,1318.5],legendary:[523.25,659.25,783.99,1046.5,1567.98]}[rarity]||[523.25,659.25];
+      notes.forEach((f,i)=>this.note(f,i*.085,.045,i===notes.length-1?.8:.45));
     },
     play(kind) {
       Haptic.forSound(kind); // ogni suono ha la sua vibrazione (anche a suoni spenti)
